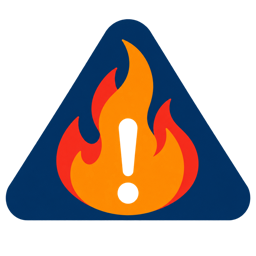
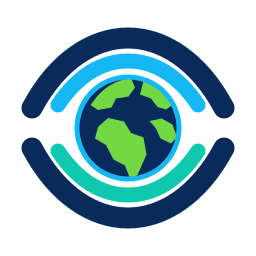
Add TerraLyra globe-eye branding

diff --git a/CHANGELOG.md b/CHANGELOG.md
@@ -1,5 +1,11 @@
 # Changelog
 
+## 0.1.1
+
+- Replace the fire-specific branding with TerraLyra's provider-neutral globe
+  and observation-eye identity.
+- Include a scalable SVG source and transparent 256 px and 512 px icons.
+
 ## 0.1.0
 
 - Launch TerraLyra as a clean, provider-neutral Home Assistant integration
